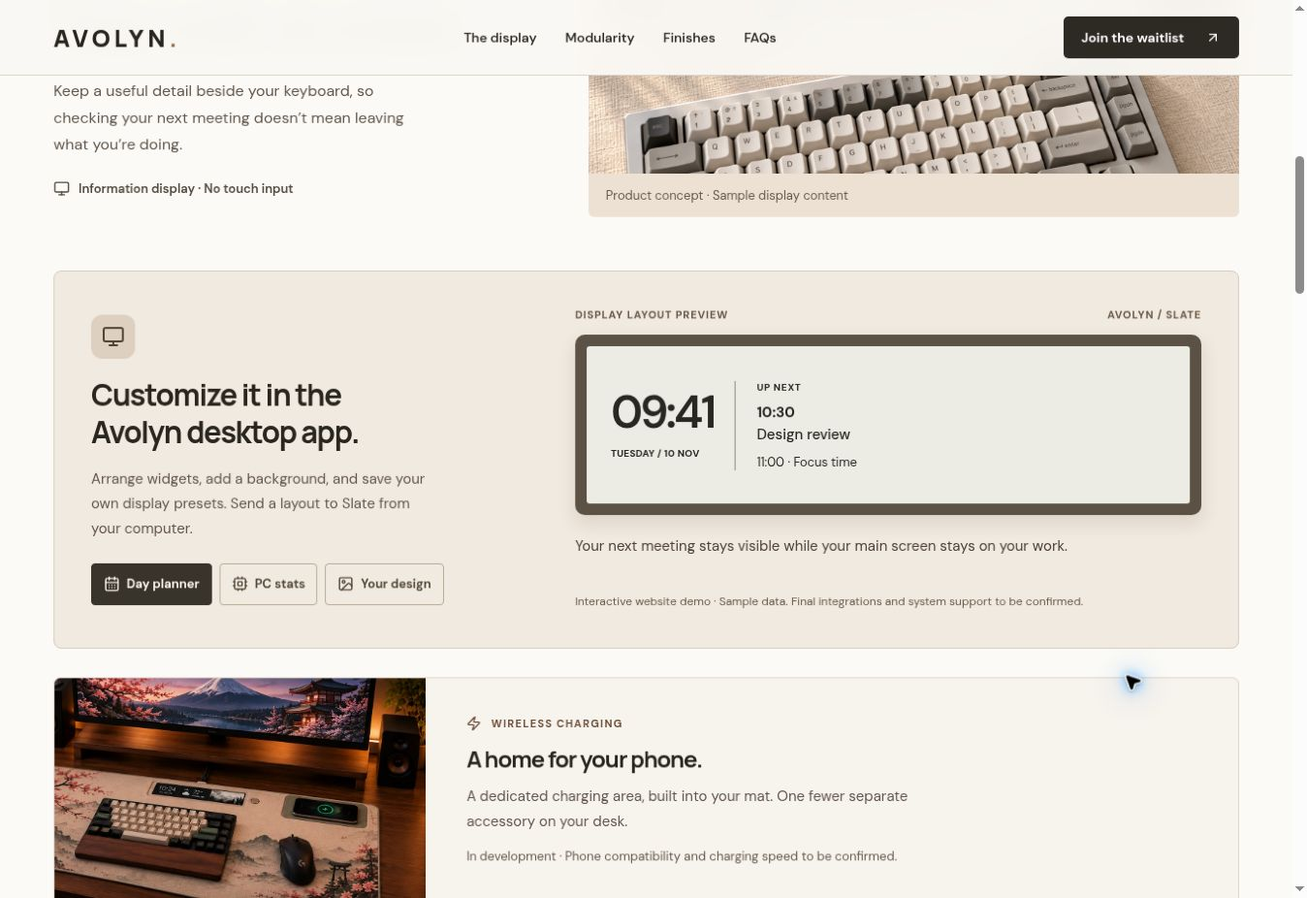
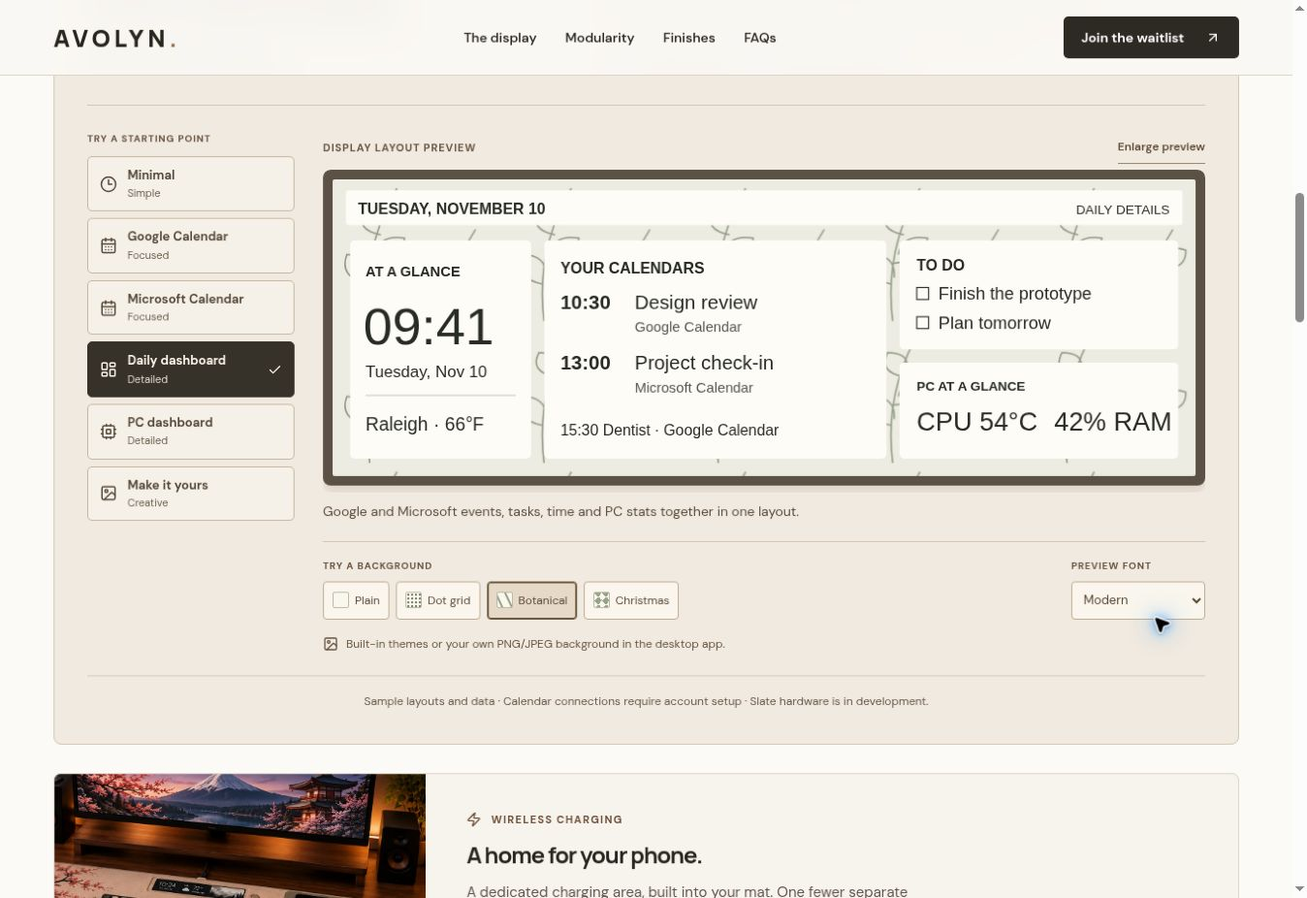
Show customizable Slate screens, calendar providers, backgrounds and fonts

Changed region(s): [[0.0312, 0.0605, 1.0, 1.0], [0.9659, 0.3326, 1.0, 0.3629]]

diff --git a/src/DisplayShowcase.jsx b/src/DisplayShowcase.jsx
@@ -1,0 +1,87 @@
+import React, { useId, useState } from 'react';
+import './DisplayShowcase.css';
+import { CalendarDays, Check, Clock3, Cpu, Image, LayoutDashboard } from 'lucide-react';
+
+const layouts = [
+  { id: 'minimal', title: 'Minimal', density: 'Simple', icon: Clock3, description: 'Just the time and a reminder. Leave the rest of the screen quiet.' },
+  { id: 'google', title: 'Google Calendar', density: 'Focused', icon: CalendarDays, description: 'Keep personal plans and your next Google Calendar event in view.' },
+  { id: 'microsoft', title: 'Microsoft Calendar', density: 'Focused', icon: CalendarDays, description: 'A dedicated work agenda with upcoming events from Microsoft Calendar.' },
+  { id: 'workday', title: 'Daily dashboard', density: 'Detailed', icon: LayoutDashboard, description: 'Google and Microsoft events, tasks, time and PC stats together in one layout.' },
+  { id: 'stats', title: 'PC dashboard', density: 'Detailed', icon: Cpu, description: 'Give supported PC readings more room, with a clock and a personal note alongside.' },
+  { id: 'personal', title: 'Make it yours', density: 'Creative', icon: Image, description: 'Your background, your words, your layout. Start with a preset and change every widget.' },
+];
+const backgrounds = [
+  { id: 'plain', name: 'Plain' }, { id: 'dots', name: 'Dot grid' },
+  { id: 'botanical', name: 'Botanical' }, { id: 'christmas', name: 'Christmas' },
+];
+const fonts = { modern: 'Arial, sans-serif', serif: 'Georgia, serif', typewriter: 'Courier New, monospace' };
+const fontNames = { modern: 'Modern', serif: 'Classic serif', typewriter: 'Typewriter' };
+
+function ScreenText({ x, y, size = 18, bold = false, children, ...props }) {
+  return <text x={x} y={y} fontSize={size} fontWeight={bold ? 700 : 400} {...props}>{children}</text>;
+}
+function Panel({ x, y, width, height, children }) {
+  return <g><rect x={x} y={y} width={width} height={height} rx="4" fill="#fdfcf7"/>{children}</g>;
+}
+function EventRow({ x, y, time, title, provider }) {
+  return <g><ScreenText x={x} y={y} size={18} bold>{time}</ScreenText><ScreenText x={x + 68} y={y} size={18}>{title}</ScreenText><ScreenText x={x + 68} y={y + 21} size={13} fill="#57594e">{provider}</ScreenText></g>;
+}
+function SampleScreen({ layout, background, font, patternId }) {
+  const detailed = layout === 'workday' || layout === 'stats';
+  return <svg className="sample-screen" viewBox="0 0 792 272" aria-hidden="true" style={{ fontFamily: fonts[font] }}>
+    <defs>
+      <pattern id={patternId} width={background === 'dots' ? 18 : 160} height={background === 'dots' ? 18 : 130} patternUnits="userSpaceOnUse">
+        {background === 'dots' && <circle cx="4" cy="4" r="1.1" fill="#92988a"/>}
+        {background === 'botanical' && <g fill="none" stroke="#919b84" strokeWidth="1.4"><path d="M34 132Q25 66 59 8M33 96Q5 90 13 69Q37 69 35 90M35 77Q64 74 66 54Q43 50 39 69M44 51Q20 46 29 29Q48 29 47 42"/><path d="M125 125Q105 84 131 46M116 104Q95 105 95 86Q113 79 116 97M119 82Q144 83 143 65Q126 59 123 75"/></g>}
+        {background === 'christmas' && <g stroke="#92988a" strokeWidth="1.3" fill="none"><path d="M43 16L21 53H33L16 78H70L53 53H65ZM43 78V94M120 20V50M105 35H135M109 24L131 46M109 46L131 24M114 101H140M127 88V114M118 92L136 110M118 110L136 92"/></g>}
+      </pattern>
+    </defs>
+    <rect width="792" height="272" fill="#edece3"/>
+    {background !== 'plain' && <rect width="792" height="272" fill={`url(#${patternId})`}/>}
+    <rect x="12" y="10" width="768" height="32" rx="3" fill="#fdfcf7"/>
+    <ScreenText x={23} y={32} size={14} bold>TUESDAY, NOVEMBER 10</ScreenText>
+    <ScreenText x={768} y={32} size={12} textAnchor="end">{detailed ? 'DAILY DETAILS' : 'A LITTLE SPACE FOR YOU'}</ScreenText>
+    {layout === 'minimal' && <Panel x={123} y={69} width={546} height={166}><ScreenText x={396} y={151} size={76} textAnchor="middle">09:41</ScreenText><ScreenText x={396} y={197} size={20} textAnchor="middle">One thing at a time.</ScreenText></Panel>}
+    {(layout === 'google' || layout === 'microsoft') && <>
+      <Panel x={16} y={56} width={222} height={200}><ScreenText x={36} y={91} size={13} bold>{layout === 'google' ? 'YOUR DAY' : 'WORKDAY'}</ScreenText><ScreenText x={34} y={161} size={59}>09:41</ScreenText><ScreenText x={36} y={199} size={17}>Tuesday, Nov 10</ScreenText><ScreenText x={36} y={232} size={13}>{layout === 'google' ? 'Room for what matters.' : 'Keep your work in focus.'}</ScreenText></Panel>
+      <Panel x={250} y={56} width={526} height={200}>
+        <ScreenText x={271} y={86} size={15} bold>{layout === 'google' ? 'GOOGLE CALENDAR' : 'MICROSOFT CALENDAR'}</ScreenText>
+        <line x1="271" y1="101" x2="754" y2="101" stroke="#c4c5b9"/>
+        {layout === 'google' ? <><EventRow x={271} y={133} time="10:30" title="Design review" provider="Personal · Google Calendar"/><EventRow x={271} y={192} time="15:30" title="Dentist appointment" provider="Personal · Google Calendar"/></> : <><EventRow x={271} y={130} time="10:00" title="Team stand-up" provider="Work · Microsoft Calendar"/><EventRow x={271} y={184} time="13:00" title="Project check-in" provider="Work · Microsoft Calendar"/><ScreenText x={271} y={237} size={15}>14:30   Focus time</ScreenText></>}
+      </Panel>
+    </>}
+    {layout === 'workday' && <>
+      <Panel x={16} y={56} width={166} height={200}><ScreenText x={30} y={89} size={13} bold>AT A GLANCE</ScreenText><ScreenText x={28} y={151} size={48}>09:41</ScreenText><ScreenText x={30} y={181} size={15}>Tuesday, Nov 10</ScreenText><line x1="30" y1="198" x2="168" y2="198" stroke="#c4c5b9"/><ScreenText x={30} y={231} size={17}>Raleigh · 66°F</ScreenText></Panel>
+      <Panel x={194} y={56} width={314} height={200}><ScreenText x={209} y={86} size={14} bold>YOUR CALENDARS</ScreenText><EventRow x={209} y={119} time="10:30" title="Design review" provider="Google Calendar"/><EventRow x={209} y={174} time="13:00" title="Project check-in" provider="Microsoft Calendar"/><ScreenText x={209} y={235} size={14}>15:30   Dentist · Google Calendar</ScreenText></Panel>
+      <Panel x={520} y={56} width={256} height={100}><ScreenText x={536} y={84} size={14} bold>TO DO</ScreenText><rect x="536" y="99" width="11" height="11" stroke="currentColor" fill="none"/><ScreenText x={556} y={110} size={16}>Finish the prototype</ScreenText><rect x="536" y="126" width="11" height="11" stroke="currentColor" fill="none"/><ScreenText x={556} y={137} size={16}>Plan tomorrow</ScreenText></Panel>
+      <Panel x={520} y={168} width={256} height={88}><ScreenText x={536} y={194} size={12} bold>PC AT A GLANCE</ScreenText><ScreenText x={536} y={231} size={24}>CPU 54°C</ScreenText><ScreenText x={662} y={231} size={24}>42% RAM</ScreenText></Panel>
+    </>}
+    {layout === 'stats' && <>
+      <Panel x={16} y={56} width={184} height={200}><ScreenText x={31} y={88} size={13} bold>YOUR SETUP</ScreenText><ScreenText x={30} y={150} size={51}>09:41</ScreenText><ScreenText x={31} y={191} size={15}>Make it happen.</ScreenText><ScreenText x={31} y={232} size={14}>Uptime · 3h 24m</ScreenText></Panel>
+      {[{ x: 212, name: 'CPU', value: '54°C', detail: 'Usage 24%' },{ x: 404, name: 'GPU', value: '62°C', detail: 'Usage 38%' },{ x: 596, name: 'MEMORY', value: '42%', detail: '13.4 / 32 GB' }].map(item => <Panel key={item.name} x={item.x} y={56} width={180} height={200}><ScreenText x={item.x+16} y={89} size={14} bold>{item.name}</ScreenText><ScreenText x={item.x+13} y={154} size={44}>{item.value}</ScreenText><ScreenText x={item.x+16} y={194} size={17}>{item.detail}</ScreenText><rect x={item.x+16} y="215" width="148" height="7" fill="#d9dacd"/><rect x={item.x+16} y="215" width={item.name === 'CPU' ? 36 : item.name === 'GPU' ? 56 : 62} height="7" fill="#43483c"/></Panel>)}
+    </>}
+    {layout === 'personal' && <>
+      <Panel x={46} y={76} width={223} height={154}><ScreenText x={64} y={148} size={60}>09:41</ScreenText><ScreenText x={66} y={192} size={17}>A fresh start.</ScreenText></Panel>
+      <Panel x={338} y={76} width={404} height={154}><ScreenText x={361} y={108} size={12} bold>YOUR WORDS, YOUR WAY</ScreenText><ScreenText x={361} y={153} size={28}>Make room</ScreenText><ScreenText x={361} y={193} size={28}>for a good day.</ScreenText></Panel>
+    </>}
+  </svg>;
+}
+
+export default function DisplayShowcase() {
+  const [layout, setLayout] = useState('workday');
+  const [background, setBackground] = useState('botanical');
+  const [font, setFont] = useState('modern');
+  const [zoomed, setZoomed] = useState(false);
+  const active = layouts.find(item => item.id === layout);
+  const backgroundName = backgrounds.find(item => item.id === background).name;
+  const id = useId().replace(/:/g, '');
+  return <div className="screen-showcase" aria-labelledby="app-title">
+    <div className="showcase-intro"><h3 id="app-title">Fully customizable.<br/><em>Entirely yours.</em></h3><div><p>Build your screen in the Avolyn desktop app. Move and resize widgets, change fonts, add a background, and save your own presets.</p><div className="calendar-services" aria-label="Desktop app calendar connections"><span><CalendarDays size={17} aria-hidden="true"/>Google Calendar</span><span><CalendarDays size={17} aria-hidden="true"/>Microsoft Calendar</span></div></div></div>
+    <div className="showcase-layout"><div className="showcase-presets"><span className="showcase-label">TRY A STARTING POINT</span><div className="preset-options" role="group" aria-label="Explore sample display layouts">{layouts.map(item => <button type="button" key={item.id} aria-pressed={layout === item.id} aria-controls={`${id}-preview`} onClick={() => setLayout(item.id)}><item.icon size={18} aria-hidden="true"/><span>{item.title}<small>{item.density}</small></span>{layout === item.id && <Check size={15} aria-hidden="true"/>}</button>)}</div></div>
+      <div className="showcase-preview" id={`${id}-preview`}><div className="preview-heading"><span>DISPLAY LAYOUT PREVIEW</span><button type="button" className="preview-zoom" aria-pressed={zoomed} aria-controls={`${id}-screen`} onClick={() => setZoomed(value => !value)}>{zoomed ? 'Fit preview' : 'Enlarge preview'}</button></div><div className={`screen-scroll ${zoomed ? 'is-zoomed' : ''}`} tabIndex={zoomed ? 0 : undefined} role="region" aria-label="Display preview. When enlarged, scroll horizontally to explore."><div className="display-frame" id={`${id}-screen`} role="img" aria-label={`${active.title}, ${active.density.toLowerCase()} sample layout. ${active.description} ${backgroundName} background. ${fontNames[font]} font. All values are sample data.`}><SampleScreen layout={layout} background={background} font={font} patternId={`${id}-pattern`}/></div></div><p className="showcase-benefit" aria-live="polite" aria-atomic="true">{active.description} <span className="sr-only">{backgroundName} background. {fontNames[font]} font.</span></p>
+        <div className="showcase-appearance"><div><span className="showcase-label">TRY A BACKGROUND</span><div className="background-options" role="group" aria-label="Preview background">{backgrounds.map(item => <button type="button" key={item.id} className={`background-choice background-choice--${item.id}`} aria-pressed={background === item.id} onClick={() => setBackground(item.id)}><span aria-hidden="true"/>{item.name}</button>)}</div></div><label className="font-choice"><span className="showcase-label">PREVIEW FONT</span><select aria-label="Preview font" value={font} onChange={event => setFont(event.target.value)}>{Object.entries(fontNames).map(([value, name]) => <option value={value} key={value}>{name}</option>)}</select></label></div>
+        <p className="custom-background-note"><Image size={16} aria-hidden="true"/>Built-in themes or your own PNG/JPEG background in the desktop app.</p>
+      </div>
+    </div><p className="preview-note">Sample layouts and data · Calendar connections require account setup · Slate hardware is in development.</p>
+  </div>;
+}

diff --git a/src/App.jsx b/src/App.jsx
@@ -1,5 +1,7 @@
 import React, { useEffect, useState } from 'react';
-import { ArrowDown, ArrowRight, ArrowUpRight, CalendarDays, Check, Cpu, Image, Layers3, Menu, Monitor, X, Zap } from 'lucide-react';
+import { ArrowDown, ArrowRight, ArrowUpRight, Check, Layers3, Menu, Monitor, X, Zap } from 'lucide-react';
+
+import DisplayShowcase from './DisplayShowcase.jsx';
 
 const ASSET = `${import.meta.env.BASE_URL}images/`;
 const colorways = [
@@ -38,24 +40,10 @@ function Hero() {
 function SectionKicker({ children }) {
   return <p className="section-kicker"><span aria-hidden="true"/>{children}</p>;
 }
-const displayViews = [
-  { id: 'planner', label: 'Day planner', icon: CalendarDays, benefit: 'Your next meeting stays visible while your main screen stays on your work.' },
-  { id: 'stats', label: 'PC stats', icon: Cpu, benefit: 'Keep supported system readings beside your keyboard without opening a dashboard.' },
-  { id: 'personal', label: 'Your design', icon: Image, benefit: 'Make a quieter layout with a clock, a personal note, and your own background.' },
-];
-function DisplayPreview({ view }) {
-  return <div className={`eink-preview eink-preview--${view}`} role="img" aria-label={view === 'planner' ? 'Sample day planner: 9:41, design review at 10:30, focus time at 11:00.' : view === 'stats' ? 'Sample PC stats: CPU 54 degrees Celsius, GPU 62 degrees Celsius, memory 42 percent. Example readings, not live data.' : 'Sample personal layout: 9:41, Make room for a good day, with a decorative botanical background.'}>
-    {view === 'planner' && <><div className="eink-clock"><strong>09:41</strong><span>TUESDAY / 10 NOV</span></div><div className="eink-agenda"><span className="eink-label">UP NEXT</span><strong>10:30 <span>Design review</span></strong><span>11:00 · Focus time</span></div></>}
-    {view === 'stats' && <>{[['CPU', '54°C'], ['GPU', '62°C'], ['MEMORY', '42%']].map(([label, value]) => <div className="eink-stat" key={label}><span className="eink-label">{label}</span><strong>{value}</strong><span>EXAMPLE READING</span></div>)}</>}
-    {view === 'personal' && <><div className="eink-clock"><strong>09:41</strong><span>TUESDAY</span></div><div className="eink-personal"><span className="eink-label">A LITTLE REMINDER</span><strong>Make room<br/>for a good day.</strong></div><div className="eink-botanical" aria-hidden="true"><span/><span/><span/></div></>}
-  </div>;
-}
 function Features() {
-  const [view, setView] = useState('planner');
-  const active = displayViews.find(item => item.id === view);
   return <section className="features-section section-pad" id="features" aria-labelledby="features-title"><div className="container">
     <div className="display-intro"><div className="display-copy"><SectionKicker>THE E-INK DISPLAY</SectionKicker><h2 id="features-title">Your day in view.<br/><em>Your work on screen.</em></h2><p>Keep a useful detail beside your keyboard, so checking your next meeting doesn’t mean leaving what you’re doing.</p><span className="display-type"><Monitor size={17} aria-hidden="true"/>Information display · No touch input</span></div><figure className="display-photo"><img src={`${ASSET}slate-display-context.webp`} alt="Close-up concept of Slate's e-ink display set into the fabric mat, beside a keyboard and charging area" loading="lazy" width="1894" height="830"/><figcaption>Product concept · Sample display content</figcaption></figure></div>
-    <div className="app-demo" aria-labelledby="app-title"><div className="app-copy"><div className="app-icon" aria-hidden="true"><Monitor size={24}/></div><h3 id="app-title">Customize it in the<br/>Avolyn desktop app.</h3><p>Arrange widgets, add a background, and save your own display presets. Send a layout to Slate from your computer.</p><div className="display-view-picker" role="group" aria-label="Explore sample display layouts">{displayViews.map(item => <button type="button" key={item.id} aria-pressed={view === item.id} aria-controls="display-demo" onClick={() => setView(item.id)}><item.icon size={17} aria-hidden="true"/>{item.label}</button>)}</div></div><div className="app-preview" id="display-demo"><div className="preview-heading"><span>DISPLAY LAYOUT PREVIEW</span><span>AVOLYN / SLATE</span></div><div className="display-frame"><DisplayPreview view={view}/></div><p className="preview-benefit" aria-live="polite" aria-atomic="true">{active.benefit}</p><p className="preview-note">Interactive website demo · Sample data. Final integrations and system support to be confirmed.</p></div></div>
+    <DisplayShowcase/>
     <article className="charging-feature"><img src={`${ASSET}slate-hero.webp`} alt="Concept close-up of Slate's removable wireless charging area" loading="lazy"/><div><span className="feature-label"><Zap size={16} aria-hidden="true"/>WIRELESS CHARGING</span><h3>A home for your phone.</h3><p>A dedicated charging area, built into your mat. One fewer separate accessory on your desk.</p><span className="small-note">In development · Phone compatibility and charging speed to be confirmed.</span></div></article>
   </div></section>;
 }
@@ -83,7 +71,8 @@ function FAQ() {
     ['What is Avolyn Slate?', 'A modular desk mat being developed with an e-ink information display, a removable wireless charging module, and interchangeable mat finishes.'],
     ['Are the keyboard and mouse included?', 'No. Keyboards, mice, phones, computers and other desk accessories in the images are not included. Product images are concept renders; accessory brands are not affiliated with Avolyn.'],
     ['Is the display a touchscreen or touchpad?', 'No. The e-ink module displays information. You customize its layout in the Avolyn desktop app on your computer.'],
-    ['What can I put on the display?', 'The desktop app is being developed around editable widgets, backgrounds and saved presets. Planned views include clock and date, calendar events, PC stats, notes and personal layouts. Images and this website demo use sample data. Final integrations, supported systems and refresh intervals will be confirmed before launch.'],
+    ['How customizable is the screen?', 'Build a minimal clock or a detailed dashboard in the Avolyn desktop app. Add, move and resize widgets for calendars, time, tasks, notes, weather, news, pictures and supported PC stats. Choose a built-in background or add your own PNG/JPEG, change the font, and save or import your own presets. Website examples use sample data; final hardware behavior is still being validated.'],
+    ['Can I use Google or Microsoft Calendar?', 'The desktop app includes Google Calendar and Microsoft Calendar connections, calendar selection and agenda views. Account setup and permission are required; workplace accounts may need administrator approval. You can also import an .ics calendar file as a snapshot. Live customer sign-in and final hardware behavior are still being validated.'],
     ['Will it work with my computer and phone?', 'Final Windows and macOS support, connection requirements, compatible phones and charging speeds will be published after testing. Some PC sensors and connected data sources may need additional setup.'],
     ['Can I swap the mat or replace a module?', 'That is the design goal: release the display and charger from underneath, then refit them into a compatible Slate mat. Each module is intended to be replaceable separately. The attachment method, compatibility, spare parts, pricing and warranty are still being finalized.'],
     ['What are the materials and dimensions?', 'The current direction is a woven, linen-inspired surface with a tailored edge. Final fabric composition, dimensions and care instructions will be shared before orders open.'],

diff --git a/src/styles.css b/src/styles.css
@@ -56,38 +56,8 @@ p { line-height: 1.75; }
 .display-photo { overflow: hidden; border-radius: 6px; background: #ece1d3; }
 .display-photo img { width: 100%; height: 310px; object-fit: cover; object-position: 35% center; }
 .display-photo figcaption { padding: 12px 18px; }
-.app-demo { display: grid; grid-template-columns: .8fr 1.2fr; gap: 6%; margin-top: 56px; border: 1px solid #d9cdbf; border-radius: 8px; padding: 38px; background: #f1eae0; align-items: center; }
-.app-icon { display: inline-flex; padding: 11px; border-radius: 12px; background: #ddd0c0; color: #514333; margin-bottom: 18px; }
-.app-copy h3 { font-size: clamp(25px, 2.3vw, 32px); }
-.app-copy > p { font-size: 15px; color: #64584e; margin: 16px 0 22px; max-width: 355px; }
-.display-view-picker { display: flex; flex-wrap: wrap; gap: 8px; }
-.display-view-picker button { display: flex; align-items: center; gap: 7px; min-height: 44px; border: 1px solid #bcab97; border-radius: 4px; background: transparent; padding: 10px 12px; color: #534738; font-size: 13px; font-weight: 650; }
-.display-view-picker button[aria-pressed='true'] { background: #38332b; color: #fff8ed; border-color: #38332b; }
-.display-view-picker button:hover:not([aria-pressed='true']) { background: #fff9f0; }
-.app-preview { min-width: 0; }
 .preview-heading { display: flex; justify-content: space-between; gap: 15px; color: #6a5948; font-size: 11px; font-weight: 700; letter-spacing: .08em; margin-bottom: 14px; }
 .display-frame { padding: 12px; background: #5c5145; border-radius: 10px; box-shadow: 0 8px 18px #513b2420; }
-.eink-preview { min-height: 164px; display: flex; align-items: center; gap: 22px; padding: 25px; border-radius: 3px; background: #edece4; color: #272822; overflow: hidden; }
-.eink-clock { display: flex; flex-direction: column; flex: none; gap: 12px; }
-.eink-clock strong { font-size: clamp(31px, 3.5vw, 49px); letter-spacing: -.06em; font-weight: 600; line-height: 1; }
-.eink-clock > span { font-size: 10px; letter-spacing: .03em; font-weight: 750; }
-.eink-agenda { display: flex; flex-direction: column; border-left: 1px solid #87887c; padding-left: 22px; gap: 10px; font-size: 13px; }
-.eink-label { font-size: 10px; font-weight: 750; letter-spacing: .07em; }
-.eink-agenda strong { font-size: 15px; }
-.eink-agenda strong > span { display: block; margin-top: 3px; font-weight: 500; }
-.eink-preview--stats { justify-content: space-between; gap: 10px; }
-.eink-stat { display: flex; flex-direction: column; gap: 12px; }
-.eink-stat strong { font-size: clamp(27px, 3vw, 42px); font-weight: 600; letter-spacing: -.045em; }
-.eink-stat > span:last-child { font-size: 8px; }
-.eink-preview--personal { gap: 20px; position: relative; }
-.eink-personal { display: flex; flex-direction: column; gap: 10px; z-index: 1; }
-.eink-personal strong { font-family: Georgia, serif; font-size: 21px; font-weight: 400; line-height: 1.25; }
-.eink-botanical { position: absolute; right: -4px; bottom: -20px; height: 125px; width: 62px; border-left: 2px solid #555b4b; transform: rotate(-22deg); opacity: .5; }
-.eink-botanical span { position: absolute; width: 36px; height: 19px; border-radius: 80% 0 80% 0; background: #555b4b; }
-.eink-botanical span:nth-child(1) { top: 14px; left: -36px; }
-.eink-botanical span:nth-child(2) { top: 48px; }
-.eink-botanical span:nth-child(3) { top: 80px; left: -36px; }
-.preview-benefit { font-size: 15px; line-height: 1.65; margin-top: 20px; min-height: 50px; color: #4e4338; }
 .preview-note { font-size: 12px; line-height: 1.6; color: #695b4c; margin-top: 11px; }
 .charging-feature { display: grid; grid-template-columns: .65fr 1.35fr; gap: 42px; align-items: center; margin-top: 30px; border: 1px solid #ded4c6; border-radius: 7px; overflow: hidden; background: #f7f3ed; }
 .charging-feature > img { width: 100%; height: 235px; object-fit: cover; object-position: 75% center; }
@@ -189,10 +159,7 @@ p { line-height: 1.75; }
   .container { width: calc(100% - 64px); }
   .nav-links { gap: 20px; }
   .display-intro { gap: 5%; grid-template-columns: .9fr 1.1fr; }
-  .app-demo { padding: 28px; gap: 30px; grid-template-columns: .75fr 1.25fr; }
   .display-photo img { height: 330px; }
-  .eink-preview { padding: 22px 18px; gap: 17px; }
-  .eink-agenda { padding-left: 16px; }
   .modular-layout { grid-template-columns: .7fr 1.3fr; gap: 4%; }
   .swap-visual { padding: 22px; }
   .swap-stages { gap: 9px; grid-template-columns: 1fr 20px 1fr; }
@@ -218,18 +185,6 @@ p { line-height: 1.75; }
   .display-intro { grid-template-columns: 1fr; gap: 30px; }
   .display-copy > p:not(.section-kicker) { max-width: 530px; }
   .display-photo img { height: auto; aspect-ratio: 2.2; object-fit: cover; }
-  .app-demo { grid-template-columns: 1fr; gap: 30px; margin-top: 30px; }
-  .app-copy > p { max-width: 600px; }
-  .app-copy h3 br { display: none; }
-  .app-icon { display: none; }
-  .eink-preview { min-height: 170px; padding: 25px 32px; gap: 30px; }
-  .eink-clock strong { font-size: 48px; }
-  .eink-clock > span { font-size: 11px; }
-  .eink-agenda { font-size: 14px; gap: 11px; padding-left: 30px; }
-  .eink-agenda strong { font-size: 17px; }
-  .eink-agenda strong > span { display: inline; margin-left: 10px; }
-  .eink-stat strong { font-size: 40px; }
-  .preview-benefit { min-height: auto; }
   .charging-feature { gap: 25px; grid-template-columns: .7fr 1.3fr; }
   .charging-feature > img { height: 260px; }
   .charging-feature > div { padding-right: 25px; }
@@ -274,26 +229,9 @@ p { line-height: 1.75; }
   h2 { font-size: clamp(34px, 8.6vw, 46px); }
   .display-photo img { aspect-ratio: 1.65; object-position: 28% center; }
   .display-photo figcaption { font-size: 12px; padding: 11px 14px; }
-  .app-demo { padding: 22px 18px; }
-  .app-copy h3 { font-size: 27px; }
-  .display-view-picker { gap: 6px; }
-  .display-view-picker button { padding-inline: 9px; font-size: 12px; gap: 5px; }
-  .display-view-picker svg { width: 15px; }
   .preview-heading { font-size: 10px; }
   .preview-heading > span:last-child { display: none; }
   .display-frame { padding: 8px; border-radius: 7px; }
-  .eink-preview { min-height: 142px; padding: 19px 14px; gap: 17px; }
-  .eink-clock strong { font-size: clamp(27px, 8.5vw, 38px); }
-  .eink-clock > span { font-size: 8px; }
-  .eink-label { font-size: 9px; }
-  .eink-agenda { padding-left: 14px; font-size: 11px; gap: 9px; }
-  .eink-agenda strong { font-size: 14px; }
-  .eink-agenda strong > span { display: block; margin-left: 0; }
-  .eink-stat strong { font-size: clamp(23px, 7vw, 32px); }
-  .eink-stat > span:last-child { font-size: 6px; }
-  .eink-personal strong { font-size: 18px; }
-  .eink-botanical { opacity: .23; }
-  .preview-benefit { font-size: 14px; }
   .charging-feature { grid-template-columns: .65fr 1fr; gap: 0; }
   .charging-feature > img { height: 100%; min-height: 265px; object-position: 75% center; }
   .charging-feature > div { padding: 22px 19px; }

diff --git a/src/DisplayShowcase.css b/src/DisplayShowcase.css
@@ -1,0 +1,84 @@
+.screen-showcase { margin-top: 50px; padding: 34px; border: 1px solid #d5c6b4; border-radius: 8px; background: #f1eae0; }
+.showcase-intro { display: grid; grid-template-columns: .9fr 1.1fr; gap: 50px; align-items: center; padding-bottom: 29px; border-bottom: 1px solid #d6c8b7; margin-bottom: 27px; }
+.showcase-intro h3 { font-size: clamp(28px, 3vw, 39px); line-height: 1.15; letter-spacing: -.05em; }
+.showcase-intro h3 em { font-family: Georgia, serif; font-style: normal; font-weight: 400; }
+.showcase-intro p { font-size: 15px; color: #5e5143; max-width: 535px; }
+.calendar-services { display: flex; flex-wrap: wrap; gap: 10px 20px; margin-top: 15px; }
+.calendar-services > span { display: flex; align-items: center; gap: 8px; font-size: 13px; font-weight: 650; }
+.calendar-services > span:first-child svg { color: #3564a9; }
+.calendar-services > span:last-child svg { color: #6c4b8e; }
+.showcase-layout { display: grid; grid-template-columns: 216px minmax(0, 1fr); gap: 30px; align-items: start; }
+.showcase-label { display: block; color: #6a5542; font-size: 10px; line-height: 1.5; font-weight: 750; letter-spacing: .09em; margin-bottom: 11px; }
+.preset-options { display: grid; gap: 7px; }
+.preset-options button { display: flex; align-items: center; gap: 11px; text-align: left; min-height: 52px; padding: 10px 12px; background: #faf7f080; color: #554838; border: 1px solid #c8b8a3; border-radius: 5px; }
+.preset-options button > svg { flex: none; }
+.preset-options button > svg:last-child:not(:first-child) { margin-left: auto; }
+.preset-options button > span { font-size: 13px; font-weight: 650; line-height: 1.4; }
+.preset-options small { display: block; font-size: 11px; font-weight: 400; opacity: .85; margin-top: 2px; }
+.preset-options button[aria-pressed='true'] { background: #373229; color: #fff9ed; border-color: #373229; }
+.preset-options button:hover:not([aria-pressed='true']) { background: #fffaf2; }
+.showcase-preview { min-width: 0; }
+.screen-showcase .preview-heading { min-height: 29px; align-items: center; margin-bottom: 6px; }
+.preview-zoom { border: 0; border-bottom: 1px solid #9c856c; padding: 8px 0; background: transparent; color: #614d38; font-size: 12px; font-weight: 600; min-height: 34px; letter-spacing: 0; }
+.screen-scroll { overflow-x: auto; border-radius: 8px; padding-bottom: 7px; }
+.screen-scroll.is-zoomed .display-frame { width: max(100%, 816px); }
+.screen-showcase .display-frame { padding: 10px; border-radius: 8px; }
+.sample-screen { display: block; width: 100%; height: auto; border-radius: 2px; color: #282c22; fill: #282c22; }
+.showcase-benefit { min-height: 24px; margin-top: 9px; color: #5d4e3e; font-size: 14px; line-height: 1.65; }
+.showcase-appearance { display: flex; align-items: start; justify-content: space-between; flex-wrap: wrap; gap: 17px; margin-top: 18px; padding-top: 17px; border-top: 1px solid #d5c5b2; }
+.showcase-appearance .showcase-label { margin-bottom: 9px; }
+.background-options { display: flex; gap: 7px; flex-wrap: wrap; }
+.background-choice { display: flex; align-items: center; gap: 6px; border: 1px solid #c1ad93; padding: 7px 9px; min-height: 40px; font-size: 12px; border-radius: 4px; background: #faf6ed; color: #5c4c3a; }
+.background-choice[aria-pressed='true'] { border-color: #6c583e; box-shadow: inset 0 0 0 1px #6c583e; background: #e6d9c8; }
+.background-choice > span { width: 17px; height: 17px; border: 1px solid #bdb9ab; border-radius: 2px; background-color: #f9f8ec; }
+.background-choice--dots > span { background-image: radial-gradient(#747c65 1px, transparent 1px); background-size: 4px 4px; }
+.background-choice--botanical > span { background: repeating-linear-gradient(65deg, #f9f8ec 0 3px, #9aa18a 4px 5px, #f9f8ec 6px 9px); }
+.background-choice--christmas > span { background: repeating-conic-gradient(from 45deg, #f9f8ec 0 90deg, #9aa18a 90deg 180deg); background-size: 8px 8px; }
+.font-choice { min-width: 140px; }
+.font-choice select { color: #584733; border: 1px solid #c1ad93; border-radius: 4px; background: #faf6ed; padding: 8px; min-height: 40px; font-size: 13px; width: 100%; }
+.custom-background-note { display: flex; align-items: center; gap: 8px; font-size: 12px; color: #675642; margin-top: 15px; }
+.custom-background-note svg { flex: none; }
+.screen-showcase > .preview-note { text-align: center; font-size: 12px; margin-top: 22px; padding-top: 17px; border-top: 1px solid #d6c8b7; color: #695b4c; }
+.sr-only { position: absolute; height: 1px; width: 1px; overflow: hidden; padding: 0; margin: -1px; white-space: nowrap; clip-path: inset(50%); border: 0; }
+@media (max-width: 1100px) {
+  .screen-showcase { padding: 26px; }
+  .showcase-layout { grid-template-columns: 193px minmax(0, 1fr); gap: 23px; }
+  .showcase-intro { gap: 30px; }
+  .preset-options button { gap: 8px; padding-inline: 10px; }
+}
+@media (max-width: 800px) {
+  .screen-showcase { padding: 26px; margin-top: 30px; }
+  .showcase-intro { grid-template-columns: minmax(0, 1fr); gap: 19px; }
+  .showcase-intro h3 br { display: none; }
+  .showcase-intro h3 em { display: block; margin-left: 0; }
+  .showcase-layout { grid-template-columns: 1fr; gap: 24px; }
+  .preset-options { grid-template-columns: repeat(3, minmax(0, 1fr)); }
+  .preset-options button { gap: 7px; }
+  .preset-options button > svg:last-child:not(:first-child) { display: none; }
+  .preset-options button > span { font-size: 12px; }
+  .showcase-benefit { min-height: 0; }
+  .preview-zoom { min-height: 44px; }
+}
+@media (max-width: 560px) {
+  .screen-showcase { padding: 24px 18px; }
+  .showcase-intro { padding-bottom: 23px; margin-bottom: 22px; gap: 17px; }
+  .showcase-intro h3 { font-size: 30px; }
+  .showcase-intro p { font-size: 14px; }
+  .calendar-services { gap: 12px; }
+  .calendar-services > span { font-size: 12px; }
+  .preset-options { grid-template-columns: repeat(2, minmax(0, 1fr)); }
+  .preset-options button { min-height: 58px; padding: 10px 8px; }
+  .preset-options button > svg:first-child { width: 16px; }
+  .screen-showcase .preview-heading { gap: 8px; font-size: 9px; }
+  .preview-zoom { font-size: 11px; white-space: nowrap; }
+  .screen-showcase .display-frame { padding: 6px; }
+  .showcase-benefit { font-size: 13px; }
+  .showcase-appearance { display: block; margin-top: 16px; }
+  .background-options { display: grid; grid-template-columns: repeat(2, minmax(0, 1fr)); }
+  .background-choice { font-size: 13px; min-height: 44px; padding-inline: 10px; }
+  .font-choice { display: block; margin-top: 16px; }
+  .font-choice select { font-size: 16px; min-height: 44px; }
+  .custom-background-note { align-items: start; font-size: 12px; }
+  .custom-background-note svg { margin-top: 3px; }
+  .screen-showcase > .preview-note { text-align: left; }
+}

diff --git a/README.md b/README.md
@@ -2,7 +2,7 @@
 
 React + Vite product website for a modular desk mat in development: an e-ink information display, wireless charging and interchangeable mat finishes.
 
-The homepage leads with the product and its display, explains customization in the Avolyn desktop app, and shows three interactive sample layouts: Day planner, PC stats and Your design. Short audience cards follow, then one underside-transfer illustration, the finish selector, FAQs and the waitlist.
+The homepage leads with the product and its display, explains customization in the Avolyn desktop app, and shows six interactive starting points: Minimal, Google Calendar, Microsoft Calendar, Daily dashboard, PC dashboard and Make it yours. Independent background and font controls demonstrate customization across layouts; an enlarged preview supports horizontal inspection on small screens. Short audience cards follow, then one underside-transfer illustration, the finish selector, FAQs and the waitlist.
 
 ## Run locally
 
@@ -31,8 +31,8 @@ Without an endpoint, the form says that details were not sent or saved. This pro
 ## Product and content boundaries
 
 - Product images are concept renders. Keyboards, mice, phones, computers and other desk accessories are not included. Accessory brands are not affiliated with Avolyn.
-- The website's display selector is an illustrative preview with sample data, not a screenshot of the desktop app, live integration or simulation of e-ink refresh speed. Layout changes happen on the computer; the e-ink module has no touch input.
-- Final integrations, Windows/macOS support, sensors, power requirements, charging speed, phone compatibility and display refresh timing remain to be confirmed for the shipping product.
+- The website's display, background and font selectors are illustrative previews with sample data, not screenshots of the desktop app, live integrations or simulations of e-ink refresh speed. Custom PNG/JPEG backgrounds are added in the desktop app; the website does not upload files or connect accounts. Layout changes happen on the computer; the e-ink module has no touch input.
+- The desktop app implements Google and Microsoft calendar account flows, widgets, fonts and backgrounds. Customer sign-in still needs provider setup and consent. Shipping hardware behavior, Windows/macOS support, sensors, power requirements, charging speed, phone compatibility and display refresh timing remain to be confirmed.
 - Modules are designed to release from the underside and move to compatible mats. The illustration is schematic, not final assembly instructions. Mounts, spare parts, compatibility, replacement pricing and warranty remain in development.
 - The woven, linen-inspired surface and five finishes describe the material direction. Final composition, dimensions and care instructions are not promised.
 - No confirmed launch date or price is published. The FAQ explains that pricing and starter-kit contents will be shared before orders open.
@@ -42,3 +42,7 @@ Without an endpoint, the form says that details were not sent or saved. This pro
 Nina and Autumn's feedback prompted removal of the numbered journey bar, repeated introductory/material/platform sections, extra section links, and the large failure/replacement block. Each audience card now has one title and one description. Fabric and finish content share a section. The page explicitly identifies the desktop app and excluded accessories, and replaces abstract workflow claims with concrete display examples.
 
 Rendered copy fell from 1,807 to 781 words (about 57% fewer), including FAQ answers and both navigation variants. See [VALIDATION.md](VALIDATION.md) for completed checks and limitations, and [the display preview](docs/slate-display-preview.png) for the reviewed desktop layout. Image creation history is retained in [IMAGE_PROMPTS.md](IMAGE_PROMPTS.md).
+
+## Custom display showcase
+
+The screen section follows the current desktop app capabilities: movable/resizable widgets, Google and Microsoft calendar connections, background themes, custom PNG/JPEG backgrounds, three font families and personal presets. The website demonstrates four background directions and three fonts across six sample layouts at the 792 × 272 display aspect ratio. These are starting points rather than a fixed list of possible screens. See [display-showcase notes](docs/display-showcase.md) for source provenance and validation.

diff --git a/docs/display-showcase.md b/docs/display-showcase.md
@@ -1,0 +1,22 @@
+# Customizable display showcase
+
+The screen section now explains customization through the desktop app and demonstrates six starting points, four background directions and three font families. Examples share the landscape 792 × 272 aspect ratio. The default Daily dashboard combines Google and Microsoft calendar events with a clock, sample weather, tasks and PC readings. Dedicated calendar views are quieter; Minimal and Make it yours emphasize a clock, personal words and background artwork.
+
+Background and font state is independent of the selected layout. The website offers Plain, Dot grid, Botanical and Christmas examples. The desktop app supports additional built-in themes and importing a PNG/JPEG background; this is stated next to the controls and in the FAQ. No file upload or account sign-in was added to the website. Enlarge preview allows horizontal inspection at a readable size on narrow screens, and Fit preview returns to the fitted screen.
+
+## Desktop source reviewed
+
+Capabilities were checked against desktop `main` at `fb49fd287707a29b092abb6cbc5bfe31559216a8`:
+
+- [README](https://github.com/DominicD213/AvolynSlateDesktopApp/blob/fb49fd287707a29b092abb6cbc5bfe31559216a8/README.md): widgets, display size, placement/resizing, calendar setup and data-source requirements.
+- [ConnectionsPage](https://github.com/DominicD213/AvolynSlateDesktopApp/blob/fb49fd287707a29b092abb6cbc5bfe31559216a8/src/ConnectionsPage.jsx): Google/Microsoft calendar connections, calendar selection and .ics snapshots.
+- [ScreenStylePanel](https://github.com/DominicD213/AvolynSlateDesktopApp/blob/fb49fd287707a29b092abb6cbc5bfe31559216a8/src/ScreenStylePanel.jsx) and [themes documentation](https://github.com/DominicD213/AvolynSlateDesktopApp/blob/fb49fd287707a29b092abb6cbc5bfe31559216a8/docs/screen-themes.md): themes, custom PNG/JPEG backgrounds and Modern/Classic serif/Typewriter fonts.
+- [Latest Mac candidate PR #35](https://github.com/DominicD213/AvolynSlateDesktopApp/pull/35): platform packaging update; does not establish a customer-ready release or physical hardware support.
+
+## Boundaries
+
+Website layouts and botanical/seasonal patterns are purpose-built illustrations, not app screenshots. All events, weather and PC readings are fictional sample data. Changing a layout is not a demonstration of actual e-ink refresh speed. Calendar connections require provider configuration and account permission; work accounts can be subject to organizational approval. Physical panel refresh and customer-ready integrations remain separate validation work.
+
+## Verification
+
+Production build and diff checks passed. Browser checks exercised every layout/font combination, all background choices, independent appearance state, narrow frame widths and enlarge/fit behavior. One long Typewriter note and one narrow heading-wrap issue were corrected. See `VALIDATION.md`; the reviewed default view is in `slate-display-preview.png`.

diff --git a/VALIDATION.md b/VALIDATION.md
@@ -1,5 +1,20 @@
 # Validation — November 10, 2026
 
+## Current screen showcase revision
+
+- Reviewed desktop app `main` at `fb49fd287707a29b092abb6cbc5bfe31559216a8`, calendar connection UI, themes documentation and theme controls, plus latest Mac candidate PR #35. See `docs/display-showcase.md`.
+- Production build and `git diff --check` passed.
+- Exercised six sample layouts with all three fonts (18 combinations), measuring SVG text bounds against their panels. Fixed the PC note in Typewriter and verified that corrected combination fits.
+- Exercised all four backgrounds and verified background/font choices persist while switching layouts.
+- Verified responsive browser frames at 320/390/768 px, with available content widths 305/375/753 px. Corrected a narrow heading-wrap issue; page widths fit without horizontal overflow.
+- Enlarge preview created an 816 px horizontally scrollable screen inside the 227 px narrow container while the page remained 305 px wide; Fit preview restored the normal view.
+- Both calendar providers are visible in the combined dashboard. Dedicated Google/Microsoft layouts and the minimal layout were exercised.
+- Internal anchors resolved. Final desktop screenshot updated in `docs/slate-display-preview.png`.
+
+These checks cover the website examples, not real calendar authorization, hardware refresh or a pixel-for-pixel reproduction of the desktop app.
+
+## Previous homepage simplification (historical)
+
 ## Completed
 
 - `npm ci --no-audit --no-fund` succeeded with the existing lockfile.
@@ -23,4 +38,4 @@ These are browser/iframe checks, not physical iOS/Android testing, a full access
 
 No live email collection was tested. `VITE_WAITLIST_ENDPOINT` must be configured with a working signup backend before collecting subscribers. Launch price/date, final specifications, shipping integrations, service terms and production compatibility still need the owner's product decisions and hardware testing.
 
-This work updates the existing draft PR branch only. No merge or production deployment was performed.
+The homepage simplification was merged separately. This screen revision is on `feature/showcase-custom-display` for review. No merge or production deployment was performed.
